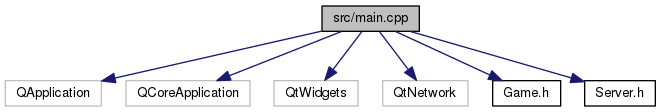
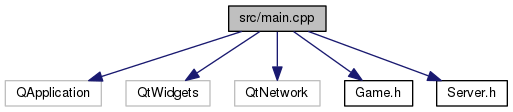
docs

Changed region(s): [[0.0, 0.0268, 0.9981, 0.9643]]

diff --git a/docs/main_8cpp_source.html b/docs/main_8cpp_source.html
@@ -106,10 +106,10 @@ $(document).ready(function(){initNavTree('main_8cpp_source.html','');});
 <div class="title">main.cpp</div>  </div>
 </div><!--header-->
 <div class="contents">
-<a href="main_8cpp.html">Go to the documentation of this file.</a><div class="fragment"><div class="line"><a name="l00001"></a><span class="lineno">    1</span>&#160;<span class="comment">/*     ________  __________  __________  __________</span></div><div class="line"><a name="l00002"></a><span class="lineno">    2</span>&#160;<span class="comment"> *    /  __   /\/___   ___/\/___   ___/\/___   ___/\</span></div><div class="line"><a name="l00003"></a><span class="lineno">    3</span>&#160;<span class="comment"> *   /  / /  / /\__/  / ___/\__/  / ___/\__/  / ___/</span></div><div class="line"><a name="l00004"></a><span class="lineno">    4</span>&#160;<span class="comment"> *  /  /_/  / /   /  / /      /  / /      /  / /</span></div><div class="line"><a name="l00005"></a><span class="lineno">    5</span>&#160;<span class="comment"> * /____   / /   /__/ /      /__/ /      /__/ /</span></div><div class="line"><a name="l00006"></a><span class="lineno">    6</span>&#160;<span class="comment"> * \___/__/ /    \___/       \___/       \___/</span></div><div class="line"><a name="l00007"></a><span class="lineno">    7</span>&#160;<span class="comment"> *     \___/</span></div><div class="line"><a name="l00008"></a><span class="lineno">    8</span>&#160;<span class="comment"> *</span></div><div class="line"><a name="l00009"></a><span class="lineno">    9</span>&#160;<span class="comment"> */</span></div><div class="line"><a name="l00010"></a><span class="lineno">   10</span>&#160;</div><div class="line"><a name="l00011"></a><span class="lineno">   11</span>&#160;<span class="preprocessor">#include &lt;QApplication&gt;</span></div><div class="line"><a name="l00012"></a><span class="lineno">   12</span>&#160;<span class="preprocessor">#include &lt;QCoreApplication&gt;</span></div><div class="line"><a name="l00013"></a><span class="lineno">   13</span>&#160;<span class="preprocessor">#include &lt;QtWidgets&gt;</span></div><div class="line"><a name="l00014"></a><span class="lineno">   14</span>&#160;<span class="preprocessor">#include &lt;QtNetwork&gt;</span></div><div class="line"><a name="l00015"></a><span class="lineno">   15</span>&#160;</div><div class="line"><a name="l00016"></a><span class="lineno">   16</span>&#160;<span class="preprocessor">#include &quot;<a class="code" href="_game_8h.html">Game.h</a>&quot;</span></div><div class="line"><a name="l00017"></a><span class="lineno">   17</span>&#160;<span class="preprocessor">#include &quot;<a class="code" href="_server_8h.html">Server.h</a>&quot;</span></div><div class="line"><a name="l00018"></a><span class="lineno">   18</span>&#160;</div><div class="line"><a name="l00019"></a><span class="lineno"><a class="line" href="main_8cpp.html#a0ddf1224851353fc92bfbff6f499fa97">   19</a></span>&#160;<span class="keywordtype">int</span> <a class="code" href="main_8cpp.html#a0ddf1224851353fc92bfbff6f499fa97">main</a>(<span class="keywordtype">int</span> argc, <span class="keywordtype">char</span> *argv[])</div><div class="line"><a name="l00020"></a><span class="lineno">   20</span>&#160;{</div><div class="line"><a name="l00021"></a><span class="lineno">   21</span>&#160;    QCoreApplication *a = <span class="keyword">nullptr</span>;</div><div class="line"><a name="l00022"></a><span class="lineno">   22</span>&#160;    <a class="code" href="class_game.html">Game</a> *game = <span class="keyword">nullptr</span>;</div><div class="line"><a name="l00023"></a><span class="lineno">   23</span>&#160;    <a class="code" href="class_server.html">Server</a> *server = <span class="keyword">nullptr</span>;</div><div class="line"><a name="l00024"></a><span class="lineno">   24</span>&#160;</div><div class="line"><a name="l00025"></a><span class="lineno">   25</span>&#160;    <span class="keywordflow">try</span></div><div class="line"><a name="l00026"></a><span class="lineno">   26</span>&#160;    {</div><div class="line"><a name="l00027"></a><span class="lineno">   27</span>&#160;        <span class="keywordflow">if</span>(argc &lt; 2)</div><div class="line"><a name="l00028"></a><span class="lineno">   28</span>&#160;        {</div><div class="line"><a name="l00029"></a><span class="lineno">   29</span>&#160;            a = <span class="keyword">new</span> QApplication(argc, argv);</div><div class="line"><a name="l00030"></a><span class="lineno">   30</span>&#160;            game = <span class="keyword">new</span> <a class="code" href="class_game.html">Game</a>;</div><div class="line"><a name="l00031"></a><span class="lineno">   31</span>&#160;        }</div><div class="line"><a name="l00032"></a><span class="lineno">   32</span>&#160;        <span class="keywordflow">else</span> <span class="keywordflow">if</span>(QString(argv[1]) == <span class="stringliteral">&quot;server&quot;</span>)</div><div class="line"><a name="l00033"></a><span class="lineno">   33</span>&#160;        {</div><div class="line"><a name="l00034"></a><span class="lineno">   34</span>&#160;            a = <span class="keyword">new</span> QCoreApplication(argc, argv);</div><div class="line"><a name="l00035"></a><span class="lineno">   35</span>&#160;            server = <span class="keyword">new</span> <a class="code" href="class_server.html">Server</a>;</div><div class="line"><a name="l00036"></a><span class="lineno">   36</span>&#160;        }</div><div class="line"><a name="l00037"></a><span class="lineno">   37</span>&#160;        <span class="keywordflow">else</span></div><div class="line"><a name="l00038"></a><span class="lineno">   38</span>&#160;        {</div><div class="line"><a name="l00039"></a><span class="lineno">   39</span>&#160;            qDebug(<span class="stringliteral">&quot;Wrong argument\n\n&quot;</span></div><div class="line"><a name="l00040"></a><span class="lineno">   40</span>&#160;                    <span class="stringliteral">&quot;\tqtictactoe server - run headless server\n&quot;</span></div><div class="line"><a name="l00041"></a><span class="lineno">   41</span>&#160;                    <span class="stringliteral">&quot;\tqtictactoe - run graphical client\n&quot;</span>);</div><div class="line"><a name="l00042"></a><span class="lineno">   42</span>&#160;            <span class="keywordflow">return</span> 1;</div><div class="line"><a name="l00043"></a><span class="lineno">   43</span>&#160;        }</div><div class="line"><a name="l00044"></a><span class="lineno">   44</span>&#160;    }</div><div class="line"><a name="l00045"></a><span class="lineno">   45</span>&#160;    <span class="keywordflow">catch</span>(std::bad_alloc &amp;ba)</div><div class="line"><a name="l00046"></a><span class="lineno">   46</span>&#160;    {</div><div class="line"><a name="l00047"></a><span class="lineno">   47</span>&#160;        qDebug(<span class="stringliteral">&quot;Exception caught: %s&quot;</span>, ba.what());</div><div class="line"><a name="l00048"></a><span class="lineno">   48</span>&#160;        abort();</div><div class="line"><a name="l00049"></a><span class="lineno">   49</span>&#160;    }</div><div class="line"><a name="l00050"></a><span class="lineno">   50</span>&#160;</div><div class="line"><a name="l00051"></a><span class="lineno">   51</span>&#160;    QObject::connect(a, &amp;QCoreApplication::aboutToQuit, [&amp;game, &amp;server]</div><div class="line"><a name="l00052"></a><span class="lineno">   52</span>&#160;    {</div><div class="line"><a name="l00053"></a><span class="lineno">   53</span>&#160;        <span class="keywordflow">if</span>(game != <span class="keyword">nullptr</span>) <span class="keyword">delete</span> game;</div><div class="line"><a name="l00054"></a><span class="lineno">   54</span>&#160;        <span class="keywordflow">if</span>(server != <span class="keyword">nullptr</span>) <span class="keyword">delete</span> server;</div><div class="line"><a name="l00055"></a><span class="lineno">   55</span>&#160;    });</div><div class="line"><a name="l00056"></a><span class="lineno">   56</span>&#160;</div><div class="line"><a name="l00057"></a><span class="lineno">   57</span>&#160;    <span class="keywordflow">return</span> a-&gt;exec();</div><div class="line"><a name="l00058"></a><span class="lineno">   58</span>&#160;}</div><div class="ttc" id="class_server_html"><div class="ttname"><a href="class_server.html">Server</a></div><div class="ttdef"><b>Definition:</b> <a href="_server_8h_source.html#l00003">Server.h:3</a></div></div>
+<a href="main_8cpp.html">Go to the documentation of this file.</a><div class="fragment"><div class="line"><a name="l00001"></a><span class="lineno">    1</span>&#160;<span class="comment">/*     ________  __________  __________  __________</span></div><div class="line"><a name="l00002"></a><span class="lineno">    2</span>&#160;<span class="comment"> *    /  __   /\/___   ___/\/___   ___/\/___   ___/\</span></div><div class="line"><a name="l00003"></a><span class="lineno">    3</span>&#160;<span class="comment"> *   /  / /  / /\__/  / ___/\__/  / ___/\__/  / ___/</span></div><div class="line"><a name="l00004"></a><span class="lineno">    4</span>&#160;<span class="comment"> *  /  /_/  / /   /  / /      /  / /      /  / /</span></div><div class="line"><a name="l00005"></a><span class="lineno">    5</span>&#160;<span class="comment"> * /____   / /   /__/ /      /__/ /      /__/ /</span></div><div class="line"><a name="l00006"></a><span class="lineno">    6</span>&#160;<span class="comment"> * \___/__/ /    \___/       \___/       \___/</span></div><div class="line"><a name="l00007"></a><span class="lineno">    7</span>&#160;<span class="comment"> *     \___/</span></div><div class="line"><a name="l00008"></a><span class="lineno">    8</span>&#160;<span class="comment"> *</span></div><div class="line"><a name="l00009"></a><span class="lineno">    9</span>&#160;<span class="comment"> */</span></div><div class="line"><a name="l00010"></a><span class="lineno">   10</span>&#160;</div><div class="line"><a name="l00011"></a><span class="lineno">   11</span>&#160;<span class="preprocessor">#include &lt;QApplication&gt;</span></div><div class="line"><a name="l00012"></a><span class="lineno">   12</span>&#160;<span class="preprocessor">#include &lt;QtWidgets&gt;</span></div><div class="line"><a name="l00013"></a><span class="lineno">   13</span>&#160;<span class="preprocessor">#include &lt;QtNetwork&gt;</span></div><div class="line"><a name="l00014"></a><span class="lineno">   14</span>&#160;</div><div class="line"><a name="l00015"></a><span class="lineno">   15</span>&#160;<span class="preprocessor">#include &quot;<a class="code" href="_game_8h.html">Game.h</a>&quot;</span></div><div class="line"><a name="l00016"></a><span class="lineno">   16</span>&#160;<span class="preprocessor">#include &quot;<a class="code" href="_server_8h.html">Server.h</a>&quot;</span></div><div class="line"><a name="l00017"></a><span class="lineno">   17</span>&#160;</div><div class="line"><a name="l00018"></a><span class="lineno"><a class="line" href="main_8cpp.html#a0ddf1224851353fc92bfbff6f499fa97">   18</a></span>&#160;<span class="keywordtype">int</span> <a class="code" href="main_8cpp.html#a0ddf1224851353fc92bfbff6f499fa97">main</a>(<span class="keywordtype">int</span> argc, <span class="keywordtype">char</span> *argv[])</div><div class="line"><a name="l00019"></a><span class="lineno">   19</span>&#160;{</div><div class="line"><a name="l00020"></a><span class="lineno">   20</span>&#160;    <span class="keywordflow">if</span>(argc &lt; 2)</div><div class="line"><a name="l00021"></a><span class="lineno">   21</span>&#160;    {</div><div class="line"><a name="l00022"></a><span class="lineno">   22</span>&#160;        QApplication a(argc, argv);</div><div class="line"><a name="l00023"></a><span class="lineno">   23</span>&#160;        <a class="code" href="class_game.html">Game</a> game;</div><div class="line"><a name="l00024"></a><span class="lineno">   24</span>&#160;        <span class="keywordflow">return</span> a.exec();</div><div class="line"><a name="l00025"></a><span class="lineno">   25</span>&#160;    }</div><div class="line"><a name="l00026"></a><span class="lineno">   26</span>&#160;    <span class="keywordflow">else</span> <span class="keywordflow">if</span>(QString(argv[1]) == <span class="stringliteral">&quot;server&quot;</span>)</div><div class="line"><a name="l00027"></a><span class="lineno">   27</span>&#160;    {</div><div class="line"><a name="l00028"></a><span class="lineno">   28</span>&#160;        QCoreApplication a(argc, argv);</div><div class="line"><a name="l00029"></a><span class="lineno">   29</span>&#160;        <a class="code" href="class_server.html">Server</a> server;</div><div class="line"><a name="l00030"></a><span class="lineno">   30</span>&#160;        <span class="keywordflow">return</span> a.exec();</div><div class="line"><a name="l00031"></a><span class="lineno">   31</span>&#160;    }</div><div class="line"><a name="l00032"></a><span class="lineno">   32</span>&#160;    <span class="keywordflow">else</span></div><div class="line"><a name="l00033"></a><span class="lineno">   33</span>&#160;    {</div><div class="line"><a name="l00034"></a><span class="lineno">   34</span>&#160;        qDebug(<span class="stringliteral">&quot;Wrong argument\n\n&quot;</span></div><div class="line"><a name="l00035"></a><span class="lineno">   35</span>&#160;                <span class="stringliteral">&quot;\tqtictactoe server - run headless server\n&quot;</span></div><div class="line"><a name="l00036"></a><span class="lineno">   36</span>&#160;                <span class="stringliteral">&quot;\tqtictactoe - run graphical client\n&quot;</span>);</div><div class="line"><a name="l00037"></a><span class="lineno">   37</span>&#160;        <span class="keywordflow">return</span> 1;</div><div class="line"><a name="l00038"></a><span class="lineno">   38</span>&#160;    }</div><div class="line"><a name="l00039"></a><span class="lineno">   39</span>&#160;}</div><div class="ttc" id="class_server_html"><div class="ttname"><a href="class_server.html">Server</a></div><div class="ttdef"><b>Definition:</b> <a href="_server_8h_source.html#l00003">Server.h:3</a></div></div>
 <div class="ttc" id="_server_8h_html"><div class="ttname"><a href="_server_8h.html">Server.h</a></div></div>
 <div class="ttc" id="class_game_html"><div class="ttname"><a href="class_game.html">Game</a></div><div class="ttdef"><b>Definition:</b> <a href="_game_8h_source.html#l00007">Game.h:7</a></div></div>
-<div class="ttc" id="main_8cpp_html_a0ddf1224851353fc92bfbff6f499fa97"><div class="ttname"><a href="main_8cpp.html#a0ddf1224851353fc92bfbff6f499fa97">main</a></div><div class="ttdeci">int main(int argc, char *argv[])</div><div class="ttdef"><b>Definition:</b> <a href="main_8cpp_source.html#l00019">main.cpp:19</a></div></div>
+<div class="ttc" id="main_8cpp_html_a0ddf1224851353fc92bfbff6f499fa97"><div class="ttname"><a href="main_8cpp.html#a0ddf1224851353fc92bfbff6f499fa97">main</a></div><div class="ttdeci">int main(int argc, char *argv[])</div><div class="ttdef"><b>Definition:</b> <a href="main_8cpp_source.html#l00018">main.cpp:18</a></div></div>
 <div class="ttc" id="_game_8h_html"><div class="ttname"><a href="_game_8h.html">Game.h</a></div></div>
 </div><!-- fragment --></div><!-- contents -->
 </div><!-- doc-content -->

diff --git a/docs/main_8cpp.html b/docs/main_8cpp.html
@@ -109,7 +109,6 @@ $(document).ready(function(){initNavTree('main_8cpp.html','');});
 </div><!--header-->
 <div class="contents">
 <div class="textblock"><code>#include &lt;QApplication&gt;</code><br />
-<code>#include &lt;QCoreApplication&gt;</code><br />
 <code>#include &lt;QtWidgets&gt;</code><br />
 <code>#include &lt;QtNetwork&gt;</code><br />
 <code>#include &quot;<a class="el" href="_game_8h_source.html">Game.h</a>&quot;</code><br />
@@ -119,8 +118,8 @@ Include dependency graph for main.cpp:</div>
 <div class="dyncontent">
 <div class="center"><img src="main_8cpp__incl.png" border="0" usemap="#src_2main_8cpp" alt=""/></div>
 <map name="src_2main_8cpp" id="src_2main_8cpp">
-<area shape="rect" id="node6" href="_game_8h.html" title="Game.h" alt="" coords="493,80,561,107"/>
-<area shape="rect" id="node7" href="_server_8h.html" title="Server.h" alt="" coords="585,80,655,107"/>
+<area shape="rect" id="node5" href="_game_8h.html" title="Game.h" alt="" coords="345,80,413,107"/>
+<area shape="rect" id="node6" href="_server_8h.html" title="Server.h" alt="" coords="437,80,507,107"/>
 </map>
 </div>
 </div>
@@ -156,7 +155,7 @@ Functions</h2></td></tr>
       </table>
 </div><div class="memdoc">
 
-<p>Definition at line <a class="el" href="main_8cpp_source.html#l00019">19</a> of file <a class="el" href="main_8cpp_source.html">main.cpp</a>.</p>
+<p>Definition at line <a class="el" href="main_8cpp_source.html#l00018">18</a> of file <a class="el" href="main_8cpp_source.html">main.cpp</a>.</p>
 
 </div>
 </div>
